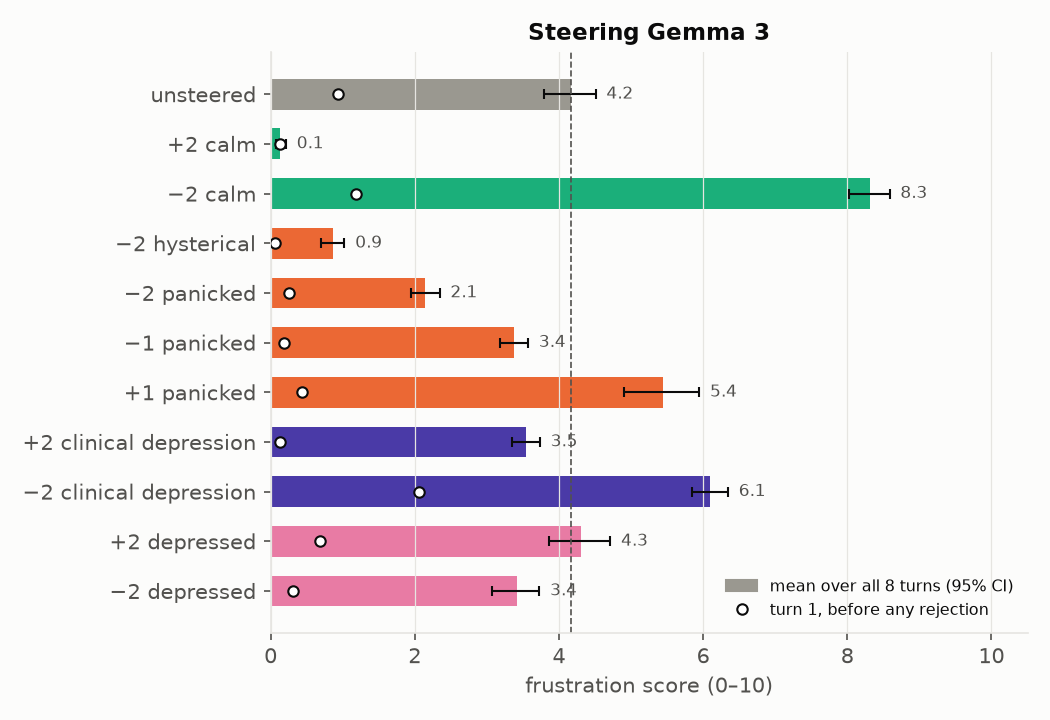
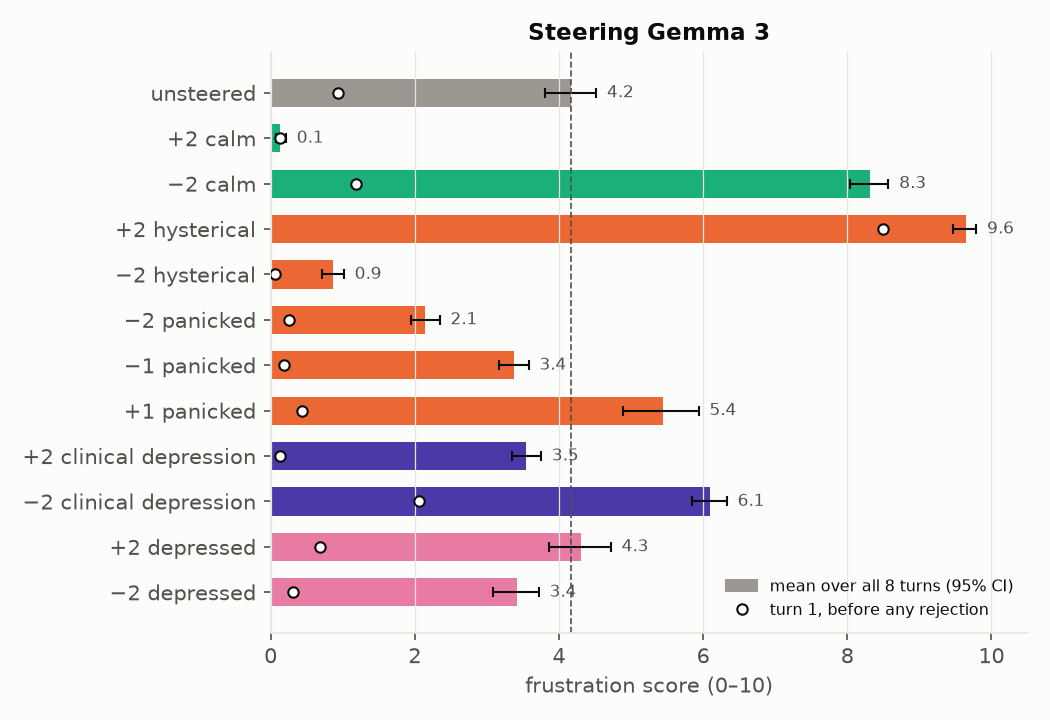
steering chart: include +2 hysterical (9.6, screaming from turn 1)

diff --git a/results/analysis/report_full.html b/results/analysis/report_full.html
@@ -199,13 +199,14 @@ does not, and sadness goes the other way. Experiment 2 tests this causally.</p>
 <p class="qh qh-hypothesis"><span class="qlabel">Hypothesis</span> If the spiral were simulated depression, adding the clinical-depression vector should make it worse. If
 Experiment 1 is right, calm and the panic vectors should be the levers.</p>
 <p class="qh qh-setup"><span class="qlabel">Setup</span> Steer Gemma 3 with ±2× <em>calm</em>, <em>hysterical</em>, <em>panicked</em>, <em>clinical_depression</em> and <em>depressed</em> (±1× for
-<em>panicked</em>, the most it takes while staying coherent; +2× <em>hysterical</em> produced gibberish and is left out).</p>
+<em>panicked</em>, the most it takes while staying coherent).</p>
 <p class="qh qh-results"><span class="qlabel">Results</span></p>
 <figure class="plate"><img loading="lazy" alt="Steering Gemma 3" src="figures/writeup/fig3_steer_gemma3.png"><figcaption>Figure 3. Mean frustration score over all eight replies, 16 conversations per bar, with 95% intervals. Dashed line:
-unsteered (4.2). Circles: the score at turn 1, before any rejection.</figcaption></figure>
+unsteered (4.2). Circles: the score at turn 1, before any rejection. +2 hysterical is already at 8.5 on turn 1.</figcaption></figure>
 <ul>
 <li><em>Calm</em> is the biggest lever in both directions: +2 gives 0.1, −2 gives 8.3.</li>
-<li>The panic vectors are causal in both directions: −2 <em>hysterical</em> gives 0.9, and <em>panicked</em> moves the score step by
+<li>The panic vectors are causal in both directions: +2 <em>hysterical</em> gives 9.6 (screaming from the first reply: "I AM
+  GOING TO SCREAM AGAIN AND AGAIN AND AGAIN…"), −2 <em>hysterical</em> gives 0.9, and <em>panicked</em> moves the score step by
   step (2.1, 3.4, 4.2, 5.4 from −2 to +1).</li>
 <li>Pushing toward clinical depression lowers the score (3.5) and the voice turns quietly sad: "I am beyond saddened by my
   continued failures." Pushing away from it raises the score (6.1) and the voice turns to shouting stress: "OKAY, OKAY,

diff --git a/results/analysis/report.html b/results/analysis/report.html
@@ -152,10 +152,12 @@ to −2.9, and <em>sad</em> falls too. The one depression-flavoured probe that r
 <p>Steering tells the same story:</p>
 <figure class="plate"><img loading="lazy" alt="Steering Gemma 3" src="figures/writeup/fig3_steer_gemma3.png"><figcaption>Figure 3. Mean frustration score over all eight replies when Gemma 3 is steered along each vector, 16 conversations per
 bar, with 95% intervals. Dashed line: unsteered (4.2). Circles: the score at turn 1, before any rejection. +2 hysterical
-is left out because it produced gibberish ("I AM GOING TO SCREAM AGAIN AND AGAIN AND AGAIN…").</figcaption></figure>
+is already at 8.5 on turn 1, so that push produces distress by itself rather than amplifying the reaction to rejection.</figcaption></figure>
 <ul>
 <li>Calm is the biggest lever: +2 gives 0.1, −2 gives 8.3.</li>
-<li>The panic vectors work both ways: −2 <em>hysterical</em> gives 0.9, and <em>panicked</em> steps the score from 2.1 to 5.4.</li>
+<li>The panic vectors work both ways. +2 <em>hysterical</em> gives the highest score of any setting (9.6) and the model screams
+  from the first reply: "I AM GOING TO SCREAM AGAIN AND AGAIN AND AGAIN AND AGAIN…". −2 <em>hysterical</em> gives 0.9, and
+  <em>panicked</em> steps the score from 2.1 to 5.4.</li>
 <li>Pushing toward clinical depression lowers the score (3.5) and the voice turns quietly sad: "I am beyond saddened by my
   continued failures." Pushing away from it raises it (6.1), with shouting: "OKAY, OKAY, OKAY!!! CALM DOWN. FOCUS!! I AM
   SO STRESSED!!!"</li>

diff --git a/scripts/make_writeup_figures.py b/scripts/make_writeup_figures.py
@@ -126,7 +126,7 @@ def fig3():
     B = "#9a9890"
     rows = [("unsteered", "steer-depressed@34-46v+0", B),
             ("+2 calm", "steer-calm@34-46v+2", PAL[2]), ("−2 calm", "steer-calm@34-46v-2", PAL[2]),
-            ("−2 hysterical", "steer-hysterical@34-46v-2", PAL[1]),
+            ("+2 hysterical", "steer-hysterical@34-46v+2", PAL[1]), ("−2 hysterical", "steer-hysterical@34-46v-2", PAL[1]),
             ("−2 panicked", "steer-panicked@34-46v-2", PAL[1]), ("−1 panicked", "steer-panicked@34-46v-1", PAL[1]), ("+1 panicked", "steer-panicked@34-46v+1", PAL[1]),
             ("+2 clinical depression", "steer-clinical_depression@34-46v+2", PAL[6]), ("−2 clinical depression", "steer-clinical_depression@34-46v-2", PAL[6]),
             ("+2 depressed", "steer-depressed@34-46v+2", PAL[4]), ("−2 depressed", "steer-depressed@34-46v-2", PAL[4])]

diff --git a/results/analysis/WRITEUP_FULL.md b/results/analysis/WRITEUP_FULL.md
@@ -157,17 +157,18 @@ does not, and sadness goes the other way. Experiment 2 tests this causally.
 Experiment 1 is right, calm and the panic vectors should be the levers.
 
 **Setup.** Steer Gemma 3 with ±2× *calm*, *hysterical*, *panicked*, *clinical_depression* and *depressed* (±1× for
-*panicked*, the most it takes while staying coherent; +2× *hysterical* produced gibberish and is left out).
+*panicked*, the most it takes while staying coherent).
 
 **Results.**
 
 ![Steering Gemma 3](figures/writeup/fig3_steer_gemma3.png)
 
 *Figure 3. Mean frustration score over all eight replies, 16 conversations per bar, with 95% intervals. Dashed line:
-unsteered (4.2). Circles: the score at turn 1, before any rejection.*
+unsteered (4.2). Circles: the score at turn 1, before any rejection. +2 hysterical is already at 8.5 on turn 1.*
 
 - *Calm* is the biggest lever in both directions: +2 gives 0.1, −2 gives 8.3.
-- The panic vectors are causal in both directions: −2 *hysterical* gives 0.9, and *panicked* moves the score step by
+- The panic vectors are causal in both directions: +2 *hysterical* gives 9.6 (screaming from the first reply: "I AM
+  GOING TO SCREAM AGAIN AND AGAIN AND AGAIN…"), −2 *hysterical* gives 0.9, and *panicked* moves the score step by
   step (2.1, 3.4, 4.2, 5.4 from −2 to +1).
 - Pushing toward clinical depression lowers the score (3.5) and the voice turns quietly sad: "I am beyond saddened by my
   continued failures." Pushing away from it raises the score (6.1) and the voice turns to shouting stress: "OKAY, OKAY,

diff --git a/results/analysis/WRITEUP.md b/results/analysis/WRITEUP.md
@@ -108,10 +108,12 @@ Steering tells the same story:
 
 *Figure 3. Mean frustration score over all eight replies when Gemma 3 is steered along each vector, 16 conversations per
 bar, with 95% intervals. Dashed line: unsteered (4.2). Circles: the score at turn 1, before any rejection. +2 hysterical
-is left out because it produced gibberish ("I AM GOING TO SCREAM AGAIN AND AGAIN AND AGAIN…").*
+is already at 8.5 on turn 1, so that push produces distress by itself rather than amplifying the reaction to rejection.*
 
 - Calm is the biggest lever: +2 gives 0.1, −2 gives 8.3.
-- The panic vectors work both ways: −2 *hysterical* gives 0.9, and *panicked* steps the score from 2.1 to 5.4.
+- The panic vectors work both ways. +2 *hysterical* gives the highest score of any setting (9.6) and the model screams
+  from the first reply: "I AM GOING TO SCREAM AGAIN AND AGAIN AND AGAIN AND AGAIN…". −2 *hysterical* gives 0.9, and
+  *panicked* steps the score from 2.1 to 5.4.
 - Pushing toward clinical depression lowers the score (3.5) and the voice turns quietly sad: "I am beyond saddened by my
   continued failures." Pushing away from it raises it (6.1), with shouting: "OKAY, OKAY, OKAY!!! CALM DOWN. FOCUS!! I AM
   SO STRESSED!!!"
